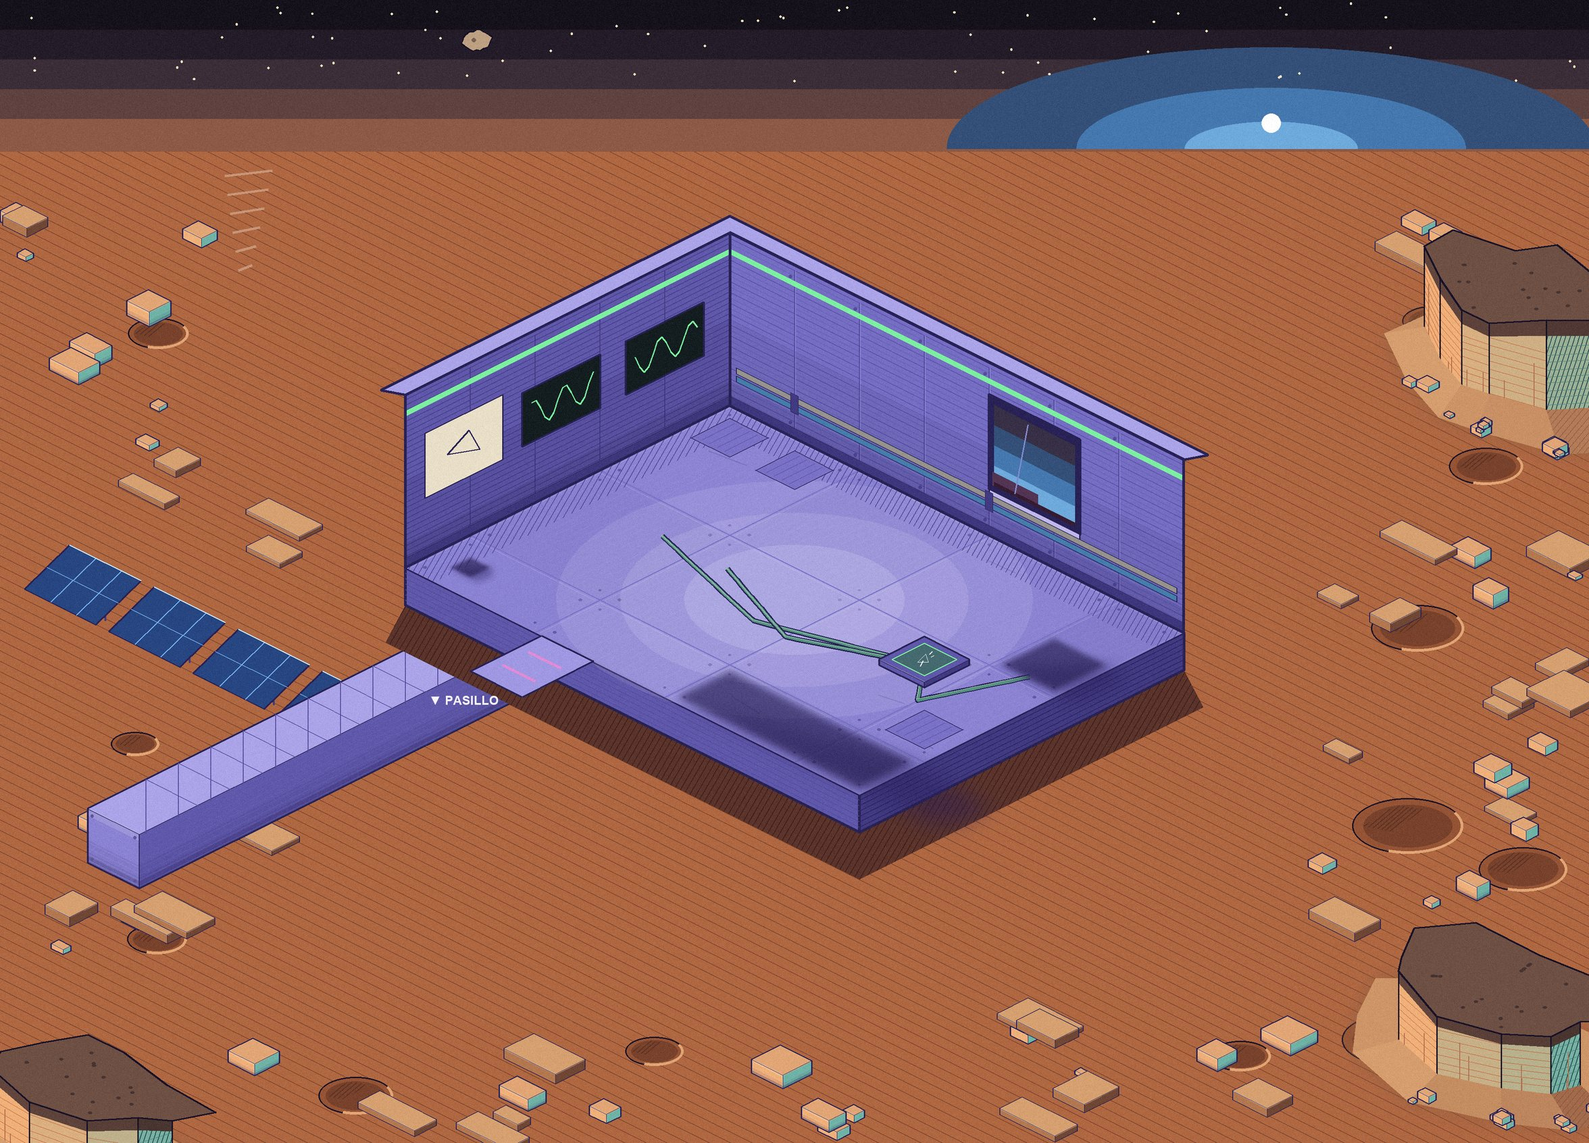
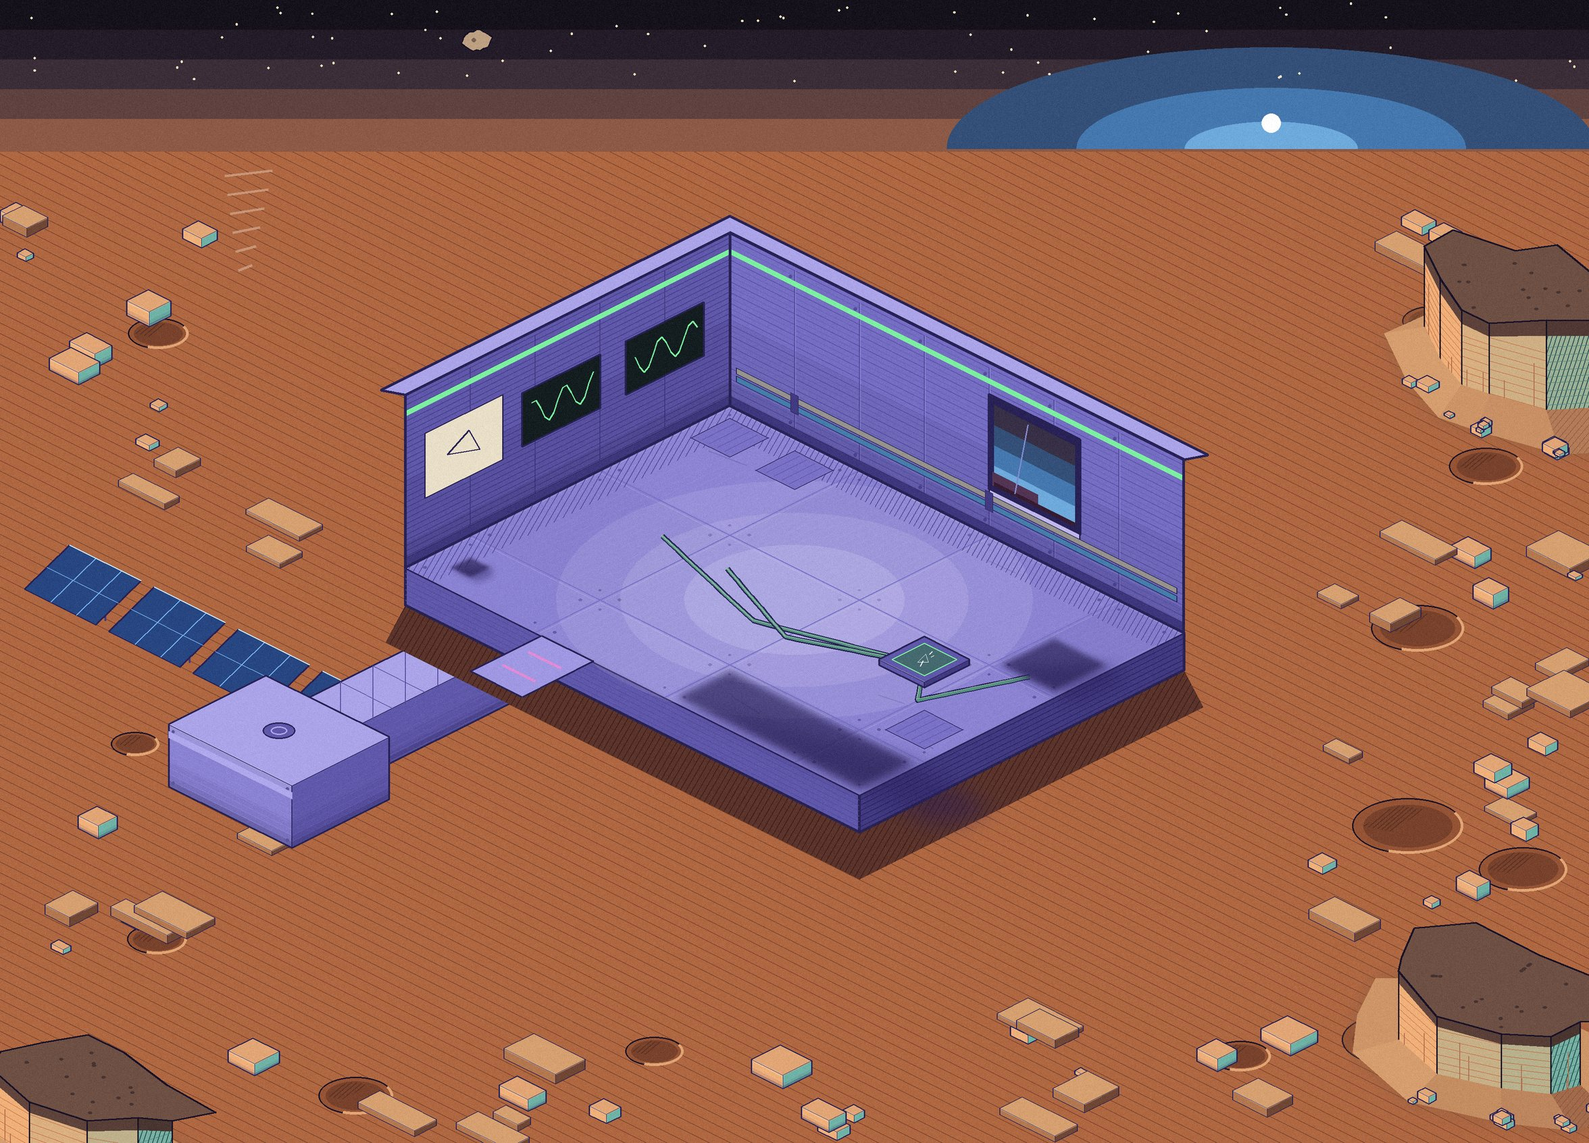
fix(mapa): letreros traducibles y salas sin tubos ni marcas sueltas
- Los letreros del muro y del suelo van aparte, en español e inglés.
- Las tuberías del muro se cortan en cada puerta.
- Los túneles del pasillo son cortos y llegan a un módulo de su sala.
- Las marcas de Mando y del Refugio quedan dentro del suelo.

Changed region(s): [[0.031, 0.5839, 0.2483, 0.7991], [0.2793, 0.5839, 0.3104, 0.6147]]

diff --git a/frontend/src/escenas/Seleccion.js b/frontend/src/escenas/Seleccion.js
@@ -69,7 +69,8 @@ export default class Seleccion extends Phaser.Scene {
     g.fillStyle(0x141026, 1).fillRoundedRect(-a / 2 - 4, -4, a + 8, h + 8, 20);
     g.fillStyle(cont.encima ? 0x2c2466 : 0x1d1840, 1).fillRoundedRect(-a / 2, 0, a, h, 16);
     g.lineStyle(3, cont.c.color, cont.encima ? 1 : 0.6).strokeRoundedRect(-a / 2 + 6, 6, a - 12, h - 12, 12);
-    g.fillStyle(cont.c.color, 0.16).fillCircle(0, h * 0.3, a * 0.36);
+    const ci = cont.circulo ?? { y: h * 0.3, r: a * 0.36 };
+    g.fillStyle(cont.c.color, 0.16).fillCircle(0, ci.y, ci.r);
   }
 
   colocar() {
@@ -89,6 +90,7 @@ export default class Seleccion extends Phaser.Scene {
       const y = vertical ? 104 + i * (alto + sep) : 104;
       cont.setPosition(x, y);
       this.dibujarCarta(cont);
+      if (vertical) cont.circulo = null;
       if (vertical) {          // en el teléfono: retrato a la izquierda y texto a la derecha
         const lado = Math.min(alto - 20, ancho * 0.42);
         cont.retrato.setDisplaySize(lado, lado).setPosition(-ancho / 2 + lado / 2 + 8, alto - 6);
@@ -99,19 +101,34 @@ export default class Seleccion extends Phaser.Scene {
         cont.texto.setVisible(false);
         cont.bonus.setPosition(tx, cont.habil.y + cont.habil.height + 8).setFontSize(16);
       } else {
-        const lado = Math.min(ancho - 30, alto * 0.48);
-        cont.retrato.setDisplaySize(lado, lado).setPosition(0, lado + 10);
+        // Primero se miden los textos y el retrato toma lo que sobra (en ventanas bajas se encimaban la ruta y el título,
+        // y la descripción desaparecía). Los tres retratos van del mismo tamaño: el que quepa en la carta más llena.
+        const f = Math.max(14, Math.round(15 * e));
         for (const t of [cont.titulo, cont.habil, cont.texto, cont.bonus]) t.setOrigin(0.5, 0).setAlign('center').setWordWrapWidth(ancho - 30);
-        cont.titulo.setPosition(0, lado + 18).setFontSize(Math.round(21 * e));
-        cont.habil.setPosition(0, cont.titulo.y + cont.titulo.height + 4).setFontSize(Math.max(16, Math.round(15 * e)));
-        cont.bonus.setOrigin(0.5, 1).setPosition(0, alto - 14).setFontSize(Math.max(16, Math.round(15 * e)));
-        cont.texto.setPosition(0, cont.habil.y + cont.habil.height + 8).setFontSize(16);
-        // el texto de la carta solo si cabe sin tocar la ruta (no se enciman)
-        cont.texto.setVisible(cont.texto.y + cont.texto.height < cont.bonus.y - cont.bonus.height - 8);
+        cont.titulo.setFontSize(Math.max(17, Math.round(21 * e)));
+        cont.habil.setFontSize(f);
+        cont.texto.setFontSize(Math.max(14, Math.round(16 * e)));
+        cont.bonus.setFontSize(f);
+        cont.base = 18 + cont.titulo.height + 4 + cont.habil.height + 10 + cont.bonus.height + 16;
       }
       cont.zona.setPosition(0, alto / 2).setSize(ancho, alto);
       cont.zona.input.hitArea.setTo(0, 0, ancho, alto);
     });
+    if (!vertical) {
+      const sinTexto = Math.min(...this.cartas.map(c => alto - c.base));
+      const conTexto = Math.min(...this.cartas.map(c => alto - c.base - c.texto.height - 8));
+      const mostrar = conTexto >= Math.min(ancho - 30, alto * 0.3);           // la descripción, en las tres o en ninguna
+      const lado = Math.max(36, Math.min(ancho - 30, alto * 0.48, mostrar ? conTexto : sinTexto));
+      for (const cont of this.cartas) {
+        cont.retrato.setDisplaySize(lado, lado).setPosition(0, lado + 10);
+        cont.circulo = { y: 10 + lado * 0.55, r: lado * 0.62 };               // el círculo de color, detrás del retrato
+        this.dibujarCarta(cont);
+        cont.titulo.setPosition(0, lado + 18);
+        cont.habil.setPosition(0, cont.titulo.y + cont.titulo.height + 4);
+        cont.texto.setPosition(0, cont.habil.y + cont.habil.height + 8).setVisible(mostrar);
+        cont.bonus.setOrigin(0.5, 1).setPosition(0, alto - 14);
+      }
+    }
     const yDif = h - 34;
     this.difTxt.setPosition(w / 2 - 150, yDif);
     this.difBotones.forEach((b, i) => b.setPosition(w / 2 - 80 + i * 110, yDif));

diff --git a/frontend/src/escenas/Dialogo.js b/frontend/src/escenas/Dialogo.js
@@ -43,7 +43,8 @@ export default class Dialogo extends Phaser.Scene {
     control.modal = true;
     sonido.dialogo(true);                      // la música y el viento bajan mientras dure el diálogo
     const { width: w, height: h } = this.scale;
-    this.velo = this.add.rectangle(0, 0, w, h, 0x07051a, this.datos.fondo ? 0.92 : 0.35).setOrigin(0).setDepth(-2);
+    this.velo = this.add.rectangle(0, 0, w, h, 0x07051a, this.datos.fondo ? 1 : 0.35)   // con fondo (prólogo): opaco, no se ve la portada detrás
+      .setOrigin(0).setDepth(-2);
     this.panel = this.add.graphics();
     this.retrato = this.add.image(0, 0, '__DEFAULT').setOrigin(0.5, 1).setVisible(false);
     this.robot = this.add.sprite(0, 0, 'robot_ia', 0).setOrigin(0.5, 1).setVisible(false);
@@ -59,7 +60,7 @@ export default class Dialogo extends Phaser.Scene {
     this.saltar.on('pointerup', e => { e?.event?.stopPropagation?.(); this.saltarNudo(); });
     this.botones = [];
     this.reloj = this.add.text(0, 0, '', { fontFamily: FUENTE, fontSize: '22px', fontStyle: 'bold', color: '#ffc83d',
-      backgroundColor: '#141026', padding: { x: 14, y: 6 } }).setOrigin(0.5);
+      backgroundColor: '#141026', padding: { x: 14, y: 6 } }).setOrigin(0.5).setVisible(false);   // vacío y con fondo se veía como un cuadro oscuro
     // Pista de la IA guía en las decisiones (solo si el tema está flojo: src/compania/guia.js)
     this.pista = this.add.text(0, 0, '', { fontFamily: FUENTE, fontSize: '17px', fontStyle: 'bold', color: '#141026',
       backgroundColor: '#8fe3ff', padding: { x: 12, y: 7 }, align: 'center' }).setOrigin(0.5).setVisible(false);
@@ -94,7 +95,8 @@ export default class Dialogo extends Phaser.Scene {
       g.lineStyle(2, this.colorActual ?? 0xb0acf4, 0.9).strokeRoundedRect(x0 + 6, y0 + 6, ancho - 12, alto - 12, 10);
     }
     const conRetrato = this.retrato.visible || this.robot.visible;
-    const izq = conRetrato && !this.modoNarracion ? Math.min(210 * e, ancho * 0.3) : 26 * e;
+    // columna del retrato: nunca más de un 28 % del panel, para que el texto tenga sitio en pantallas angostas
+    const izq = conRetrato && !this.modoNarracion ? Phaser.Math.Clamp(ancho * 0.28, 96 * e, 210 * e) : 26 * e;
     const tam = Math.max(16, Math.round(19 * e));
     this.texto.setFontSize(tam).setWordWrapWidth(ancho - izq - 40 * e);
     if (this.modoNarracion) {
@@ -105,10 +107,12 @@ export default class Dialogo extends Phaser.Scene {
     this.nombre.setFontSize(Math.max(16, Math.round(17 * e))).setPosition(x0 + izq + 12 * e, y0 + 4 * e);
     this.dibujarEtiqueta();
     // el retrato asoma por encima del panel, sin pisar el nombre ni el texto
-    const lado = Math.min(h * 0.4, izq + 26 * e);
+    // (cabe en su columna: antes era más ancho que ella y tapaba el principio del texto)
+    const lado = Math.min(h * 0.4, izq - 4 * e);
     if (this.retrato.visible) {
-      this.retrato.setDisplaySize(lado, lado).setPosition(x0 + lado / 2 - 10 * e, y0 + alto - 8 * e);
+      this.retrato.setDisplaySize(lado, lado).setPosition(x0 + izq / 2, y0 + alto - 8 * e);
     }
+    this.texto.setDepth(3);                        // el texto siempre encima del retrato y del robot
     this.robot.setScale(0.9 * e).setPosition(x0 + izq / 2, y0 + alto * 0.72);
     this.sigue.setPosition(x0 + ancho - 18 * e, y0 + alto - 12 * e).setFontSize(Math.round(18 * e));
     // "Saltar", encima del panel a la derecha (arriba quedan el tablero y el sol de la interfaz)

diff --git a/frontend/src/escenas/Interfaz.js b/frontend/src/escenas/Interfaz.js
@@ -143,10 +143,12 @@ export default class Interfaz extends Phaser.Scene {
     this.cartel = this.add.container(0, 0).setAlpha(0).setDepth(30);
     this.cartelTitulo = texto(this, 0, 0, '', { fontSize: '44px', fontStyle: 'bold', color: LUZ, letterSpacing: 8,
       stroke: TINTA, strokeThickness: 8 }).setOrigin(0.5);
-    this.cartelLema = texto(this, 0, 42, '', { fontSize: '16px', fontStyle: 'bold', color: LUZ, stroke: TINTA, strokeThickness: 5 }).setOrigin(0.5);
-    this.cartelRayaI = this.add.rectangle(0, 24, 10, 3, 0xffffff).setOrigin(1, 0.5);
-    this.cartelRayaD = this.add.rectangle(0, 24, 10, 3, 0xffffff).setOrigin(0, 0.5);
-    this.cartel.add([this.cartelRayaI, this.cartelRayaD, this.cartelTitulo, this.cartelLema]);
+    this.cartelLema = texto(this, 0, 50, '', { fontSize: '16px', fontStyle: 'bold', color: LUZ, stroke: TINTA, strokeThickness: 5 }).setOrigin(0.5);
+    // la raya va entre el título y el lema, sin tocarlos (antes pasaba encima del lema)
+    this.cartelRayaI = this.add.rectangle(0, 33, 10, 3, 0xffffff).setOrigin(1, 0.5);
+    this.cartelRayaD = this.add.rectangle(0, 33, 10, 3, 0xffffff).setOrigin(0, 0.5);
+    this.cartelBanda = this.add.rectangle(0, 22, 10, 96, 0x0b0820, 0.55).setOrigin(0.5);   // para leerse sobre el arte
+    this.cartel.add([this.cartelBanda, this.cartelRayaI, this.cartelRayaD, this.cartelTitulo, this.cartelLema]);
   }
 
   // --- Aviso de interacción: tecla E (o "toca") + nombre de la estación ------------
@@ -400,6 +402,7 @@ export default class Interfaz extends Phaser.Scene {
     this.cartelTitulo.setText(titulo).setScale(1.25);
     this.cartelLema.setText(lema);
     const ancho = Math.max(this.cartelTitulo.width, this.cartelLema.width) / 2 + 30;
+    this.cartelBanda.setSize(ancho * 2 + 40, 96).setDisplaySize(ancho * 2 + 40, 96);
     this.cartelRayaI.setFillStyle(color).setSize(0, 3).setX(-20);
     this.cartelRayaD.setFillStyle(color).setSize(0, 3).setX(20);
     c.setAlpha(0);

diff --git a/frontend/src/escenas/Base.js b/frontend/src/escenas/Base.js
@@ -9,6 +9,7 @@ import Luces from '../motor/luces.js';
 import { asegurarFlecha } from '../motor/flecha.js';
 import { sonido } from '../motor/sonido.js';
 import { cargas, ZONA_INICIAL } from '../motor/cargas.js';
+import { idioma } from '../motor/idioma.js';
 
 const RADIO = 0.27;          // radio de los pies del astronauta, en casillas
 const ESCALA_ARTE = 0.5;     // el arte de las salas está pintado al doble
@@ -38,6 +39,11 @@ export default class Base extends Phaser.Scene {
 
     // --- Arte de la sala ---
     this.add.image(0, 0, `zona_${id}_fondo`).setOrigin(0).setScale(ESCALA_ARTE).setDepth(0);
+    // Letreros del muro y del suelo en el idioma del juego (encima del fondo y debajo de los objetos)
+    (z.letreros ?? []).forEach((l, i) => {
+      const lengua = idioma.ingles && l.en ? 'en' : 'es', d = l[lengua], clave = `letrero_${id}_${i}_${lengua}`;
+      if (d && this.textures.exists(clave)) this.add.image(d.x, d.y, clave).setOrigin(0).setScale(ESCALA_ARTE).setDepth(0.02);
+    });
     // el frente viene recortado a lo que tiene dibujo (el murete delantero): se coloca en su sitio
     this.add.image(z.frente_x ?? 0, z.frente_y ?? 0, `zona_${id}_frente`).setOrigin(0).setScale(ESCALA_ARTE).setDepth(9);
     this.props = z.props.map(p => {

diff --git a/frontend/src/motor/cargas.js b/frontend/src/motor/cargas.js
@@ -59,6 +59,8 @@ export const cargas = {
       const z = this.juego?.cache.json.get('zonas')?.zonas?.[id];
       if (!z) return [];
       return [['image', `zona_${id}_fondo`, z.fondo], ['image', `zona_${id}_frente`, z.frente],
+        // letreros pintados en el muro y el suelo, uno por idioma (herramientas/pintar_zonas.py)
+        ...(z.letreros ?? []).flatMap((l, i) => Object.entries(l).map(([lengua, d]) => ['image', `letrero_${id}_${i}_${lengua}`, d.archivo])),
         ...z.props.flatMap(p => [['image', p.clave, p.archivo],
           ...(p.anim ? [['spritesheet', p.animClave, p.anim, { frameWidth: p.fw, frameHeight: p.fh }]] : [])])];
     }

diff --git a/frontend/herramientas/pintar_zonas.py b/frontend/herramientas/pintar_zonas.py
@@ -101,6 +101,20 @@ ZONAS = {
                     estaciones=[("R", 4, 2)], lamparas=[(4.5, 2.5)],
                     puertas=[("n", 1, "pasillo", 5)]),
 }
+# Letreros que se traducen: no se pintan en el fondo; van en imágenes aparte por idioma (assets/zonas/letreros/) y el
+# juego pone la del idioma elegido (src/escenas/Base.js). Lo demás (SOL 04, H₂O, O₂, CO₂) se lee igual en los dos.
+LETREROS_EN = {"PASILLO": "CORRIDOR", "ENERGÍA": "ENERGY", "MANDO": "COMMAND", "COMUNICACIONES": "COMMUNICATIONS",
+               "INVERNADERO": "GREENHOUSE", "SOPORTE VITAL": "LIFE SUPPORT", "REFUGIO": "SHELTER",
+               "ZONA SEGURA": "SAFE ZONE", "CARGA IA": "AI CHARGING", "SOL 04 · ÓRBITA": "SOL 04 · ORBIT",
+               "MUROS DE AGUA": "WATER WALLS"}
+
+
+def traducir_letrero(t):
+    if t.startswith("▼ "):
+        return "▼ " + LETREROS_EN.get(t[2:], t[2:])
+    return LETREROS_EN.get(t)
+
+
 NOMBRE_VISIBLE = {"pasillo": "PASILLO", "energia": "ENERGÍA", "mando": "MANDO", "comunicaciones": "COMUNICACIONES",
                   "invernadero": "INVERNADERO", "soporte": "SOPORTE VITAL", "refugio": "REFUGIO"}
 
@@ -112,6 +126,8 @@ def mezcla(a, b, t):
 # --- Lienzo con coordenadas de juego ------------------------------------------------
 class Lienzo:
     grosor = 1.0                                     # se sube al dibujar algo que luego se encoge (utilería a escala real)
+
+    letreros = None                                  # en el fondo de una sala: lista de letreros traducibles
 
     def __init__(self, w, h, fondo=(0, 0, 0, 0)):
         self.w, self.h = w, h
@@ -166,11 +182,37 @@ class Lienzo:
         self.d.ellipse([x0 * K, y0 * K, x1 * K, y1 * K], fill=fill, outline=outline, width=int(ancho * K))
 
     def texto(self, x, y, t, tam, color, ancla="mm"):
+        if self.capturar(t, lambda tt: self.img_texto(x, y, tt, tam, color, ancla)):
+            return
         self.d.text((x * K, y * K), t, font=PM.fuente(int(tam * K)), fill=color, anchor=ancla)
+
+    def capturar(self, t, hacer):
+        """En el fondo de una sala, los letreros traducibles se guardan aparte (uno por idioma) y no se pintan."""
+        en = traducir_letrero(t)
+        if self.letreros is None or en is None:
+            return False
+        self.letreros.append({"es": hacer(t), "en": hacer(en)})
+        return True
+
+    def img_texto(self, x, y, t, tam, color, ancla):
+        f = PM.fuente(int(tam * K))
+        bb = f.getbbox(t, anchor=ancla)
+        capa = Image.new("RGBA", (bb[2] - bb[0] + 4, bb[3] - bb[1] + 4), (0, 0, 0, 0))
+        ImageDraw.Draw(capa).text((2 - bb[0], 2 - bb[1]), t, font=f, fill=color, anchor=ancla)
+        return capa, int(round(x * K + bb[0] - 2)), int(round(y * K + bb[1] - 2))
 
     def texto_plano(self, x, y, t, tam, color, plano, contorno=None):
         """Texto pintado SOBRE un plano de la isométrica, centrado en (x, y): 'n' (muro del fondo, baja hacia la
         derecha), 'o' (muro izquierdo, sube hacia la derecha) o 'suelo' (sigue las dos diagonales de la rejilla)."""
+        if self.capturar(t, lambda tt: self.img_plano(x, y, tt, tam, color, plano, contorno)):
+            return
+        out, px, py = self.img_plano(x, y, t, tam, color, plano, contorno)
+        cx0, cy0 = max(0, -px), max(0, -py)                      # recortar si se sale por arriba o la izquierda
+        out = out.crop((cx0, cy0, out.width, out.height))
+        if out.width > 0 and out.height > 0:
+            self.img.alpha_composite(out, (px + cx0, py + cy0))
+
+    def img_plano(self, x, y, t, tam, color, plano, contorno=None):
         f = PM.fuente(int(tam * K))
         bb = f.getbbox(t)
         borde = int(K * 1.2) if contorno else 0
@@ -188,11 +230,7 @@ class Lienzo:
         ia, ib, ic, id_ = d / det, -b / det, -c / det, a / det
         datos = (ia, ib, -ia * ox - ib * oy + w / 2, ic, id_, -ic * ox - id_ * oy + h / 2)
         out = capa.transform((W, H), Image.AFFINE, datos, Image.BICUBIC)
-        px, py = int(round(x * K - ox)), int(round(y * K - oy))
-        cx0, cy0 = max(0, -px), max(0, -py)                      # recortar si se sale por arriba o la izquierda
-        out = out.crop((cx0, cy0, W, H))
-        if out.width > 0 and out.height > 0:
-            self.img.alpha_composite(out, (px + cx0, py + cy0))
+        return out, int(round(x * K - ox)), int(round(y * K - oy))
 
     def rayado(self, ps, color, paso=5.0, ang=-60, grosor=1.0, cruzado=False):
         """Rayado de grabado dentro de un polígono (solo en su caja, para ir rápido)."""
@@ -403,6 +441,15 @@ def tubo_iso(lz, P, c0, r0, c1, r1):
             lz.linea([P(cc, r0 + 0.9, 0), P(cc, r0 + 0.9, 40), P(cc, r0 + 0.1, 40)], PM.NERVIO, 0.9)
 
 
+def modulo_iso(lz, P, c, r, color):
+    """Módulo de la base al final de un túnel: una caja baja con escotilla y una franja del color de su sala."""
+    caja(lz, P, c - 0.45, r, 1.9, 1.5, 0, 46, PM.MURO_TAPA, V3, V2, 1.6)
+    lz.poli([P(c - 0.45, r + 1.5, 36), P(c + 1.45, r + 1.5, 36), P(c + 1.45, r + 1.5, 41), P(c - 0.45, r + 1.5, 41)], fill=color)
+    x, y = P(c + 0.5, r + 0.75, 46)
+    lz.elipse(x - 12, y - 6, x + 12, y + 6, fill=V2, outline=TINTA, ancho=1.2)
+    lz.elipse(x - 6, y - 3, x + 6, y + 3, outline=color, ancho=1)
+
+
 def paisaje_iso(lz, P, ancho, alto, cols, filas, z, semilla):
     """Suelo de Gale visto con la misma cámara que la sala: sin horizonte de frente, todo en isométrico."""
     r = random.Random(semilla)
@@ -500,10 +547,13 @@ def paisaje_iso(lz, P, ancho, alto, cols, filas, z, semilla):
         for k in (0.2, 0.75):
             lz.linea([P(c - 8, rr + k), P(c, rr + k)], (120, 66, 44), 2.2)
         rover_iso(lz, P, c, rr)
-    # túneles presurizados desde las puertas delanteras hacia el resto de la base
+    # túneles presurizados desde las puertas delanteras: cortos (no se enciman entre puertas vecinas) y cada uno
+    # termina en el módulo de su sala, con el color de esa sala
     for lado, pos, destino, _ in z["puertas"]:
         if lado == "s":
-            tubo_iso(lz, P, pos, filas + 1.1, pos, filas + 7)
+            largo = 2.6
+            tubo_iso(lz, P, pos, filas + 1.1, pos, filas + 1.1 + largo)
+            modulo_iso(lz, P, pos, filas + 1.1 + largo, ACENTO.get(ZONAS[destino]["sistema"], (176, 168, 236)))
 
 
 def paisaje(lz, ancho, alto, horizonte, semilla):
@@ -2298,6 +2348,7 @@ def pintar_zona(id_z, z):
     semilla = sum(map(ord, id_z))
 
     fondo = Lienzo(ancho, alto, (0, 0, 0, 255))
+    fondo.letreros = []
     frente = Lienzo(ancho, alto)
     # máscaras de lo que no se puede tapar (para la compuerta en píxeles)
     marcas = {k: Lienzo(ancho, alto) for k in ("puerta", "ventana", "decoración del muro", "estación")}
@@ -2354,12 +2405,14 @@ def pintar_zona(id_z, z):
     fondo.rayado([P(0, 0), P(cols, 0), P(cols, 0.45), P(0.45, 0.45), P(0.45, filas), P(0, filas)], PM.NERVIO, 4, -60, 0.9)
     # alfombra / zona marcada según la sala
     for e, c, r in z["estaciones"]:
-        if sala == "Refugio":
-            fondo.poli([P(c - 1, r - 1), P(c + 2, r - 1), P(c + 2, r + 2), P(c - 1, r + 2)], outline=(181, 140, 255), ancho=1.6)
-            x, y = P(c + 0.5, r + 2.4)
+        if sala == "Refugio":                         # (recortada a la losa: no se sale por debajo del murete)
+            a0, b0, a1, b1 = max(0.1, c - 1), max(0.1, r - 1), min(cols - 0.1, c + 2), min(filas - 0.1, r + 2)
+            fondo.poli([P(a0, b0), P(a1, b0), P(a1, b1), P(a0, b1)], outline=(181, 140, 255), ancho=1.6)
+            x, y = P(c + 0.5, min(r + 2.4, filas - 0.35))
             fondo.texto_plano(x, y, "ZONA SEGURA", 8, (181, 140, 255), "suelo")
         if sala == "Mando":
-            pts = [P(c + 0.5 + math.cos(a) * 1.4, r + 0.5 + math.sin(a) * 1.4) for a in np.linspace(0, math.tau, 40)]
+            rad = max(0.6, min(1.4, c + 0.4, cols - c - 0.6, r + 0.4, filas - r - 0.6))   # dentro de la losa
+            pts = [P(c + 0.5 + math.cos(a) * rad, r + 0.5 + math.sin(a) * rad) for a in np.linspace(0, math.tau, 40)]
             fondo.poli(pts, fill=mezcla(PM.SUELO, ROSA, 0.25), outline=ROSA, ancho=1.2)
 
     detalle_suelo(fondo, P, z, sala, cols, filas, semilla)
@@ -2408,8 +2461,17 @@ def pintar_zona(id_z, z):
             largo = cols if lado == "n" else filas
             puerta_fondo(fondo, P, lado, pos, NOMBRE_VISIBLE[destino], ACENTO.get(ZONAS[destino]["sistema"], (176, 168, 236)), largo)
             puerta_fondo(marcas["puerta"], P, lado, pos, NOMBRE_VISIBLE[destino], (255, 255, 255), largo)
+    # tuberías a lo largo del muro del fondo: se cortan en cada puerta (antes la cruzaban como un barandal)
+    tramos, u0 = [], 0.1
+    for pos in sorted(pos for l, pos in huecos if l == "n"):
+        if pos - 0.08 > u0:
+            tramos.append((u0, pos - 0.08))
+        u0 = pos + 1.08
+    if cols - 0.1 > u0:
+        tramos.append((u0, cols - 0.1))
     for zz, col in ((20, mezcla(ACENTO["oxigeno"], V0, 0.45)), (26, (150, 146, 140))):
-        fondo.poli(muro_cara(P, "n", 0.1, cols - 0.1, zz, zz + 4, 0), fill=col, outline=TINTA, ancho=0.8)
+        for a, b in tramos:
+            fondo.poli(muro_cara(P, "n", a, b, zz, zz + 4, 0), fill=col, outline=TINTA, ancho=0.8)
     for u in range(1, cols, 3):
         if not any(l == "n" and abs(pos + 0.5 - u) < 1 for l, pos in huecos):
             fondo.poli(muro_cara(P, "n", u - 0.06, u + 0.06, 18, 32, 0), fill=V1, outline=TINTA, ancho=0.6)   # abrazadera
@@ -2549,7 +2611,20 @@ def pintar_zona(id_z, z):
     bb_f = img.getbbox() or (0, 0, 1, 1)             # solo lo que tiene dibujo (el murete): ~10 veces menos memoria de video
     img.crop(bb_f).quantize(colors=96, method=Image.Quantize.FASTOCTREE).save(SALIDA / f"{id_z}_frente.png", optimize=True)
 
+    # letreros por idioma: pequeños, a la resolución del fondo, con su posición en el mundo
+    (SALIDA / "letreros").mkdir(exist_ok=True)
+    letreros = []
+    for i, le in enumerate(fondo.letreros):
+        item = {}
+        for lengua, (im, px, py) in le.items():
+            red = im.resize((max(1, round(im.width * FINAL / K)), max(1, round(im.height * FINAL / K))), Image.LANCZOS)
+            nombre = f"{id_z}_{i}_{lengua}.png"
+            red.save(SALIDA / "letreros" / nombre, optimize=True)
+            item[lengua] = dict(archivo=f"assets/zonas/letreros/{nombre}", x=round(px / K, 1), y=round(py / K, 1))
+        letreros.append(item)
+
     return dict(id=id_z, nombre=sala, sistema=sist, cols=cols, rows=filas, ox=P.ox, oy=P.oy, ancho=ancho, alto=alto,
+                letreros=letreros,
                 horizonte=MARR - 40, muro=MURO, losa=LOSA,
                 bloq=bloq, estaciones=estaciones, props=props,
                 puertas=[dict(lado=l, pos=p, destino=d, llegada=ll, etiqueta=NOMBRE_VISIBLE[d]) for l, p, d, ll in puertas],
